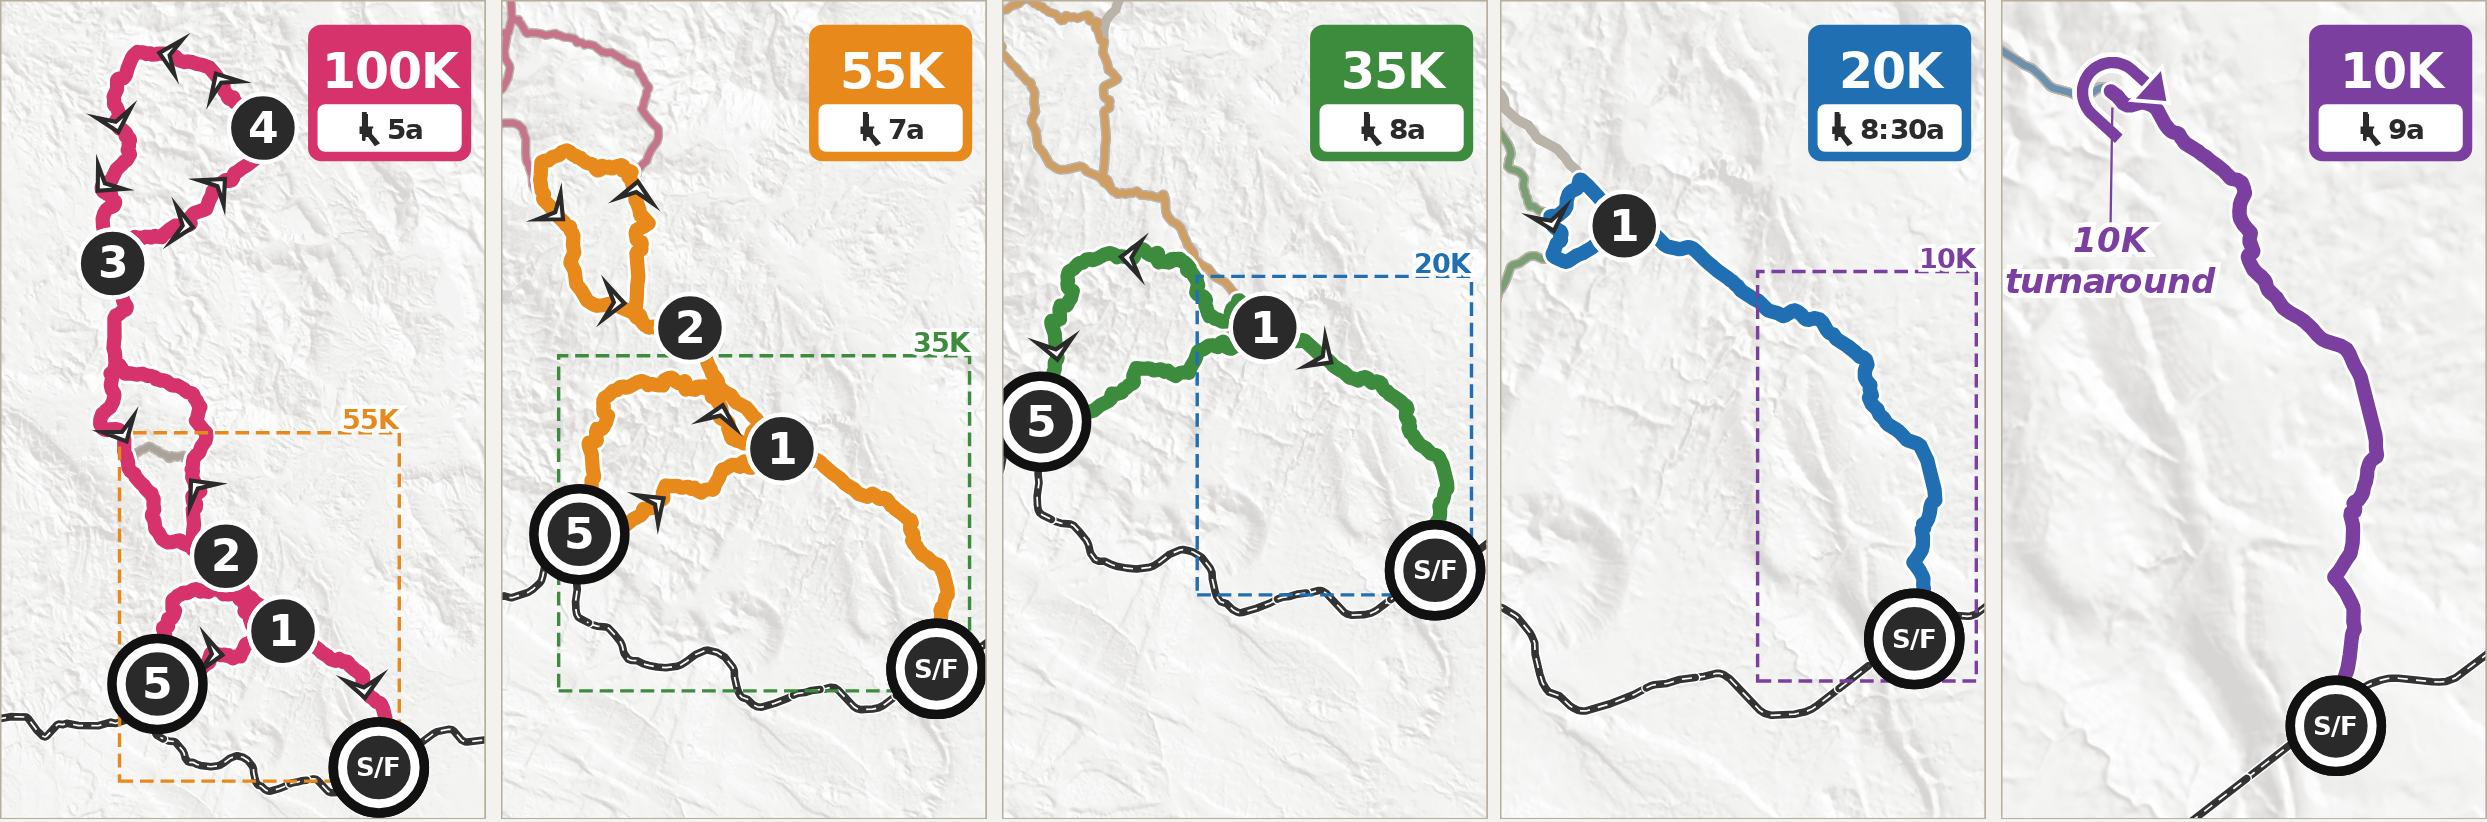
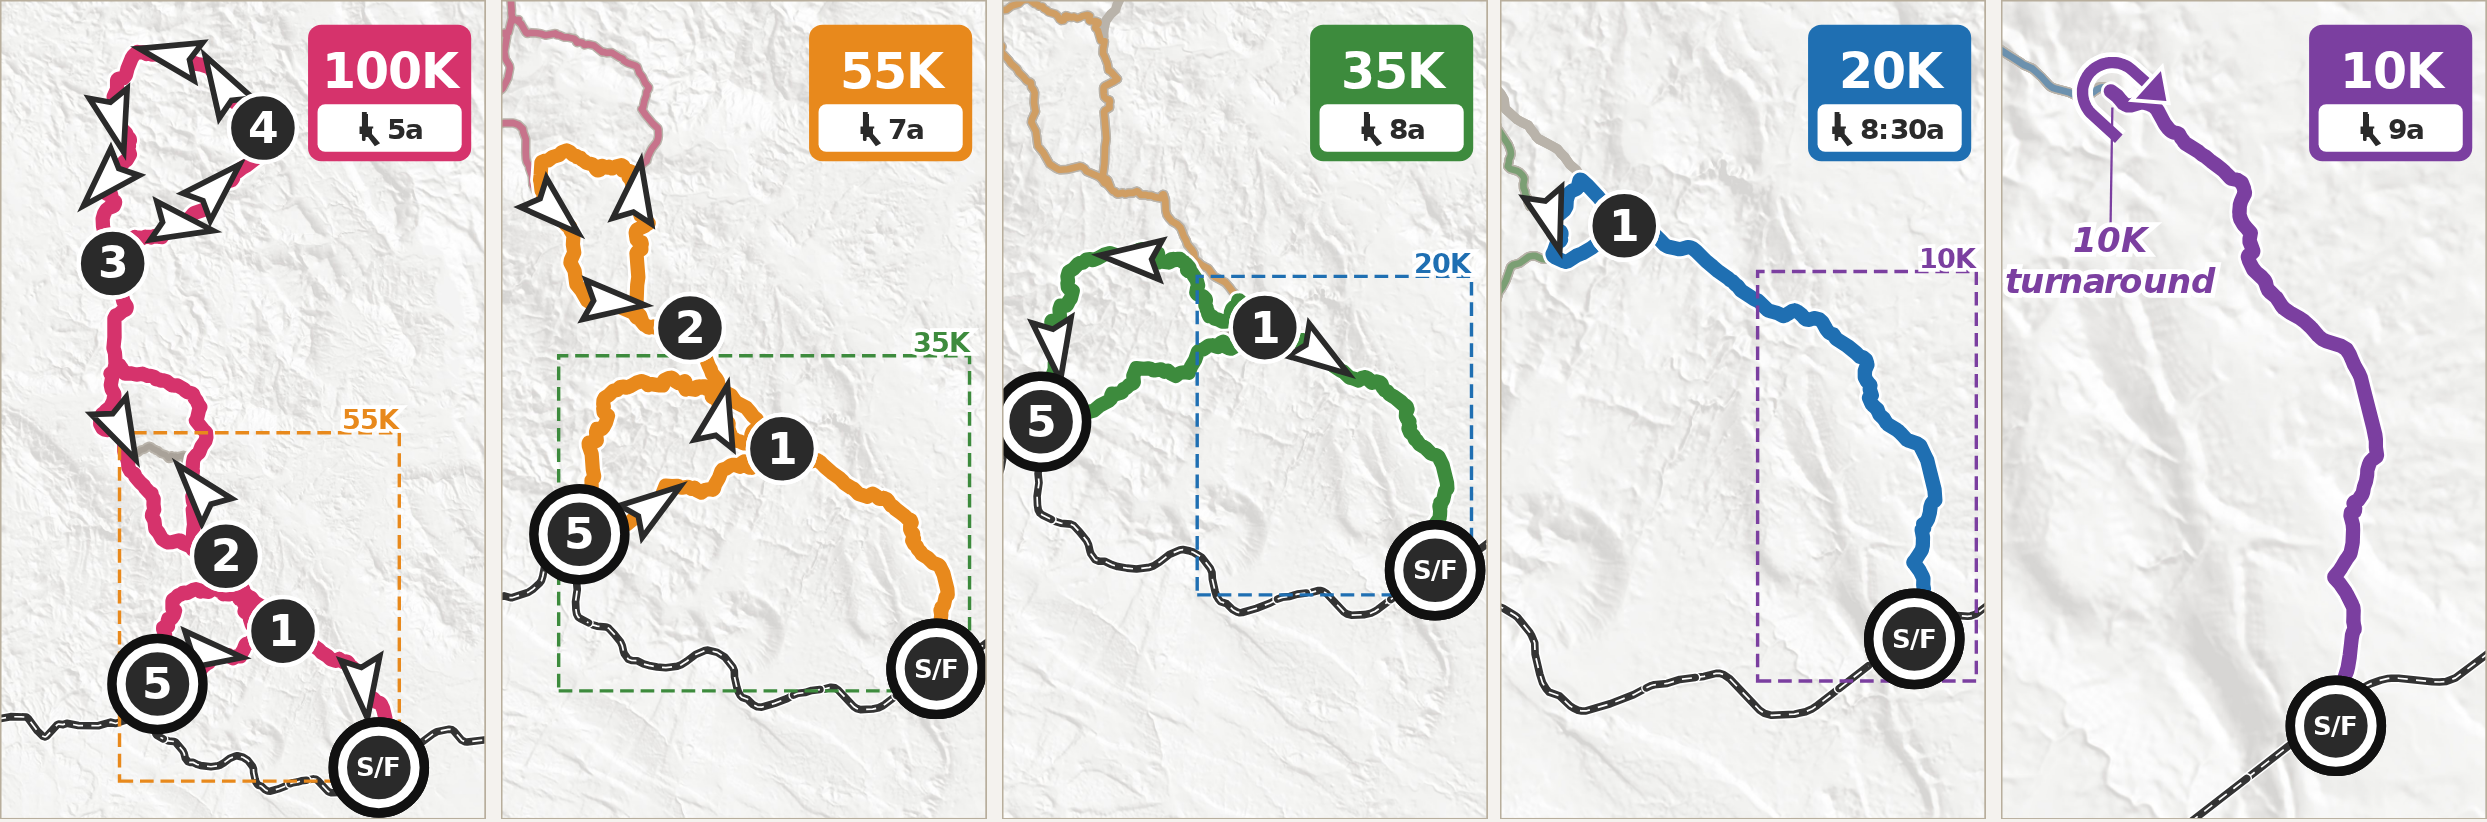
Arrows: notched dart shape, bold miter outline

diff --git a/site/lib/mainmap.ts b/site/lib/mainmap.ts
@@ -83,14 +83,15 @@ export function renderMain(c) {
   const grp = order.map(k => `<g class="layer" data-layer="${k}"${(vis[k] === false) ? ' style="display:none"' : ''}>${g[k] || ''}</g>`).join('\n');
   return `<svg class="mainmap" viewBox="0 0 ${f1(W)} ${f1(H)}" xmlns="http://www.w3.org/2000/svg" role="img" aria-label="Big Bend Ultra main course map"><defs><clipPath id="mclip"><rect width="${f1(W)}" height="${f1(H)}"/></clipPath></defs><rect width="${f1(W)}" height="${f1(H)}" fill="#fff"/><g clip-path="url(#mclip)">${grp}</g>${fur}<rect width="${f1(W)}" height="${f1(H)}" fill="none" stroke="#000" stroke-width="1.6"/></svg>`;
 }
-/** angular arrowhead (dart) centred on the route point, pointing along the route */
+/** notched arrowhead (dart), centred on the route point and pointing along the route.
+ *  Normalised shape pointing +x: tip (1,0), top-back (-0.55,-0.5), notch (-0.32,0), bottom-back (-0.55,0.5). */
+const DART: [number, number][] = [[1, 0], [-0.55, -0.5], [-0.32, 0], [-0.55, 0.5]];
 export function chevron(f, V, col) {
   const [b, c] = f.geometry.coordinates.map(V.p), p = f.properties, dx = c[0] - b[0], dy = c[1] - b[1], n0 = Math.hypot(dx, dy) || 1;
-  const v = [dx / n0, dy / n0], n = [-v[1], v[0]], h = p.size_pt / Math.hypot(1.1, 1);
-  const T = [c[0] + v[0] * 0.55 * h, c[1] + v[1] * 0.55 * h], P = (a, s1, s2) => [a[0] + v[0] * s1 + n[0] * s2, a[1] + v[1] * s1 + n[1] * s2];
-  const pts = [T, P(T, -1.1 * h, h), P(T, -0.6 * h, 0), P(T, -1.1 * h, -h)];
-  const sw = p.map === 'main' ? 2.6 : 2.2;
-  return `<path class="arrow" d="M${pts.map((q) => `${f1(q[0])},${f1(q[1])}`).join('L')}Z" fill="#fff" stroke="${col.ink}" stroke-width="${sw}" stroke-linejoin="miter" stroke-miterlimit="8"/>`;
+  const ux = dx / n0, uy = dy / n0, u = p.size_pt * 1.5, cx0 = (1 - 0.55) / 2; // centre the shape's length on the route point
+  const pts = DART.map(([x, y]) => [c[0] + ((x - cx0) * ux - y * uy) * u, c[1] + ((x - cx0) * uy + y * ux) * u]);
+  const sw = p.map === 'main' ? 3.6 : 3;
+  return `<path class="arrow" d="M${pts.map((q) => `${f1(q[0])},${f1(q[1])}`).join('L')}Z" fill="#fff" stroke="${col.ink}" stroke-width="${sw}" stroke-linejoin="miter" stroke-miterlimit="10"/>`;
 }
 let cid = 0;
 function curvedLabel(f, V, col) {
